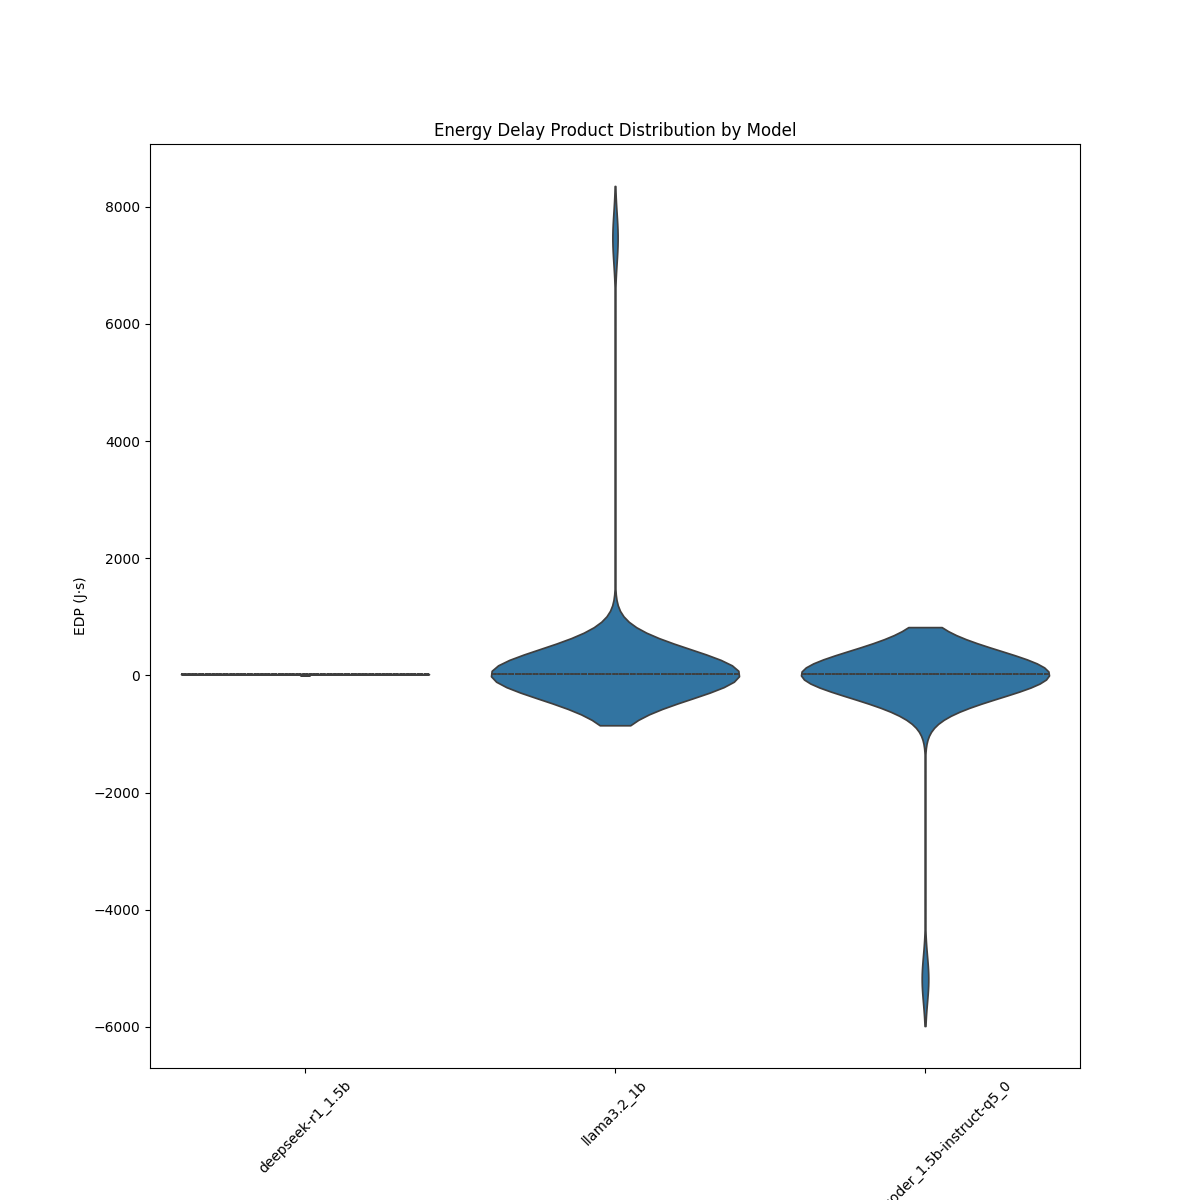
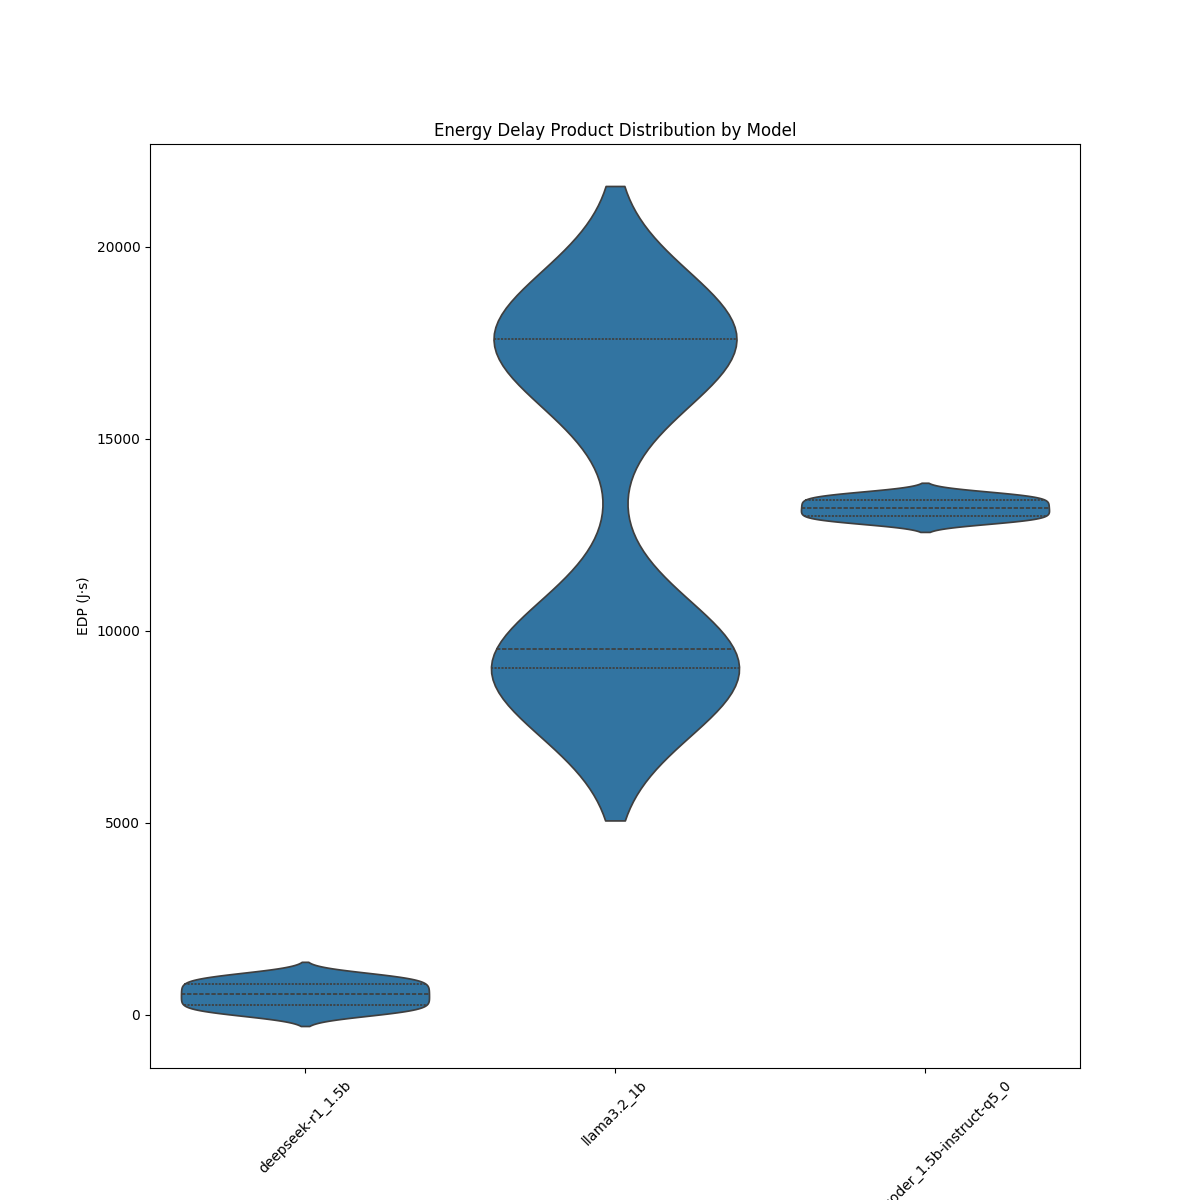
EDP bug fix

diff --git a/visuals.py b/visuals.py
@@ -26,13 +26,15 @@ df = pd.concat(all_data, ignore_index=True)
 # Calculate time since start in seconds
 df['Time'] = (df['Time'] - df['Time'].min()) / 1e6
 
+print(df.columns)
+
 # Calculate additional metrics
 df['CPU_USAGE_MEAN'] = df[[col for col in df.columns if 'CPU_USAGE' in col]].mean(axis=1)
 df['CPU_FREQUENCY_MEAN'] = df[[col for col in df.columns if 'CPU_FREQUENCY' in col]].mean(axis=1)
 df['GPU_MEMORY_UTILIZATION'] = (df['GPU0_MEMORY_USED'] / df['GPU0_MEMORY_TOTAL']) * 100
 
 # Calculate Energy Delay Product (EDP)
-df['EDP'] = df['PACKAGE_ENERGY (J)'] * df['Time'].diff().fillna(0)
+df['EDP'] = df['PACKAGE_ENERGY (J)'] * df['Time']
 
 # Visualizing CPU usage over time per model
 plt.figure(figsize=(10, 6))
